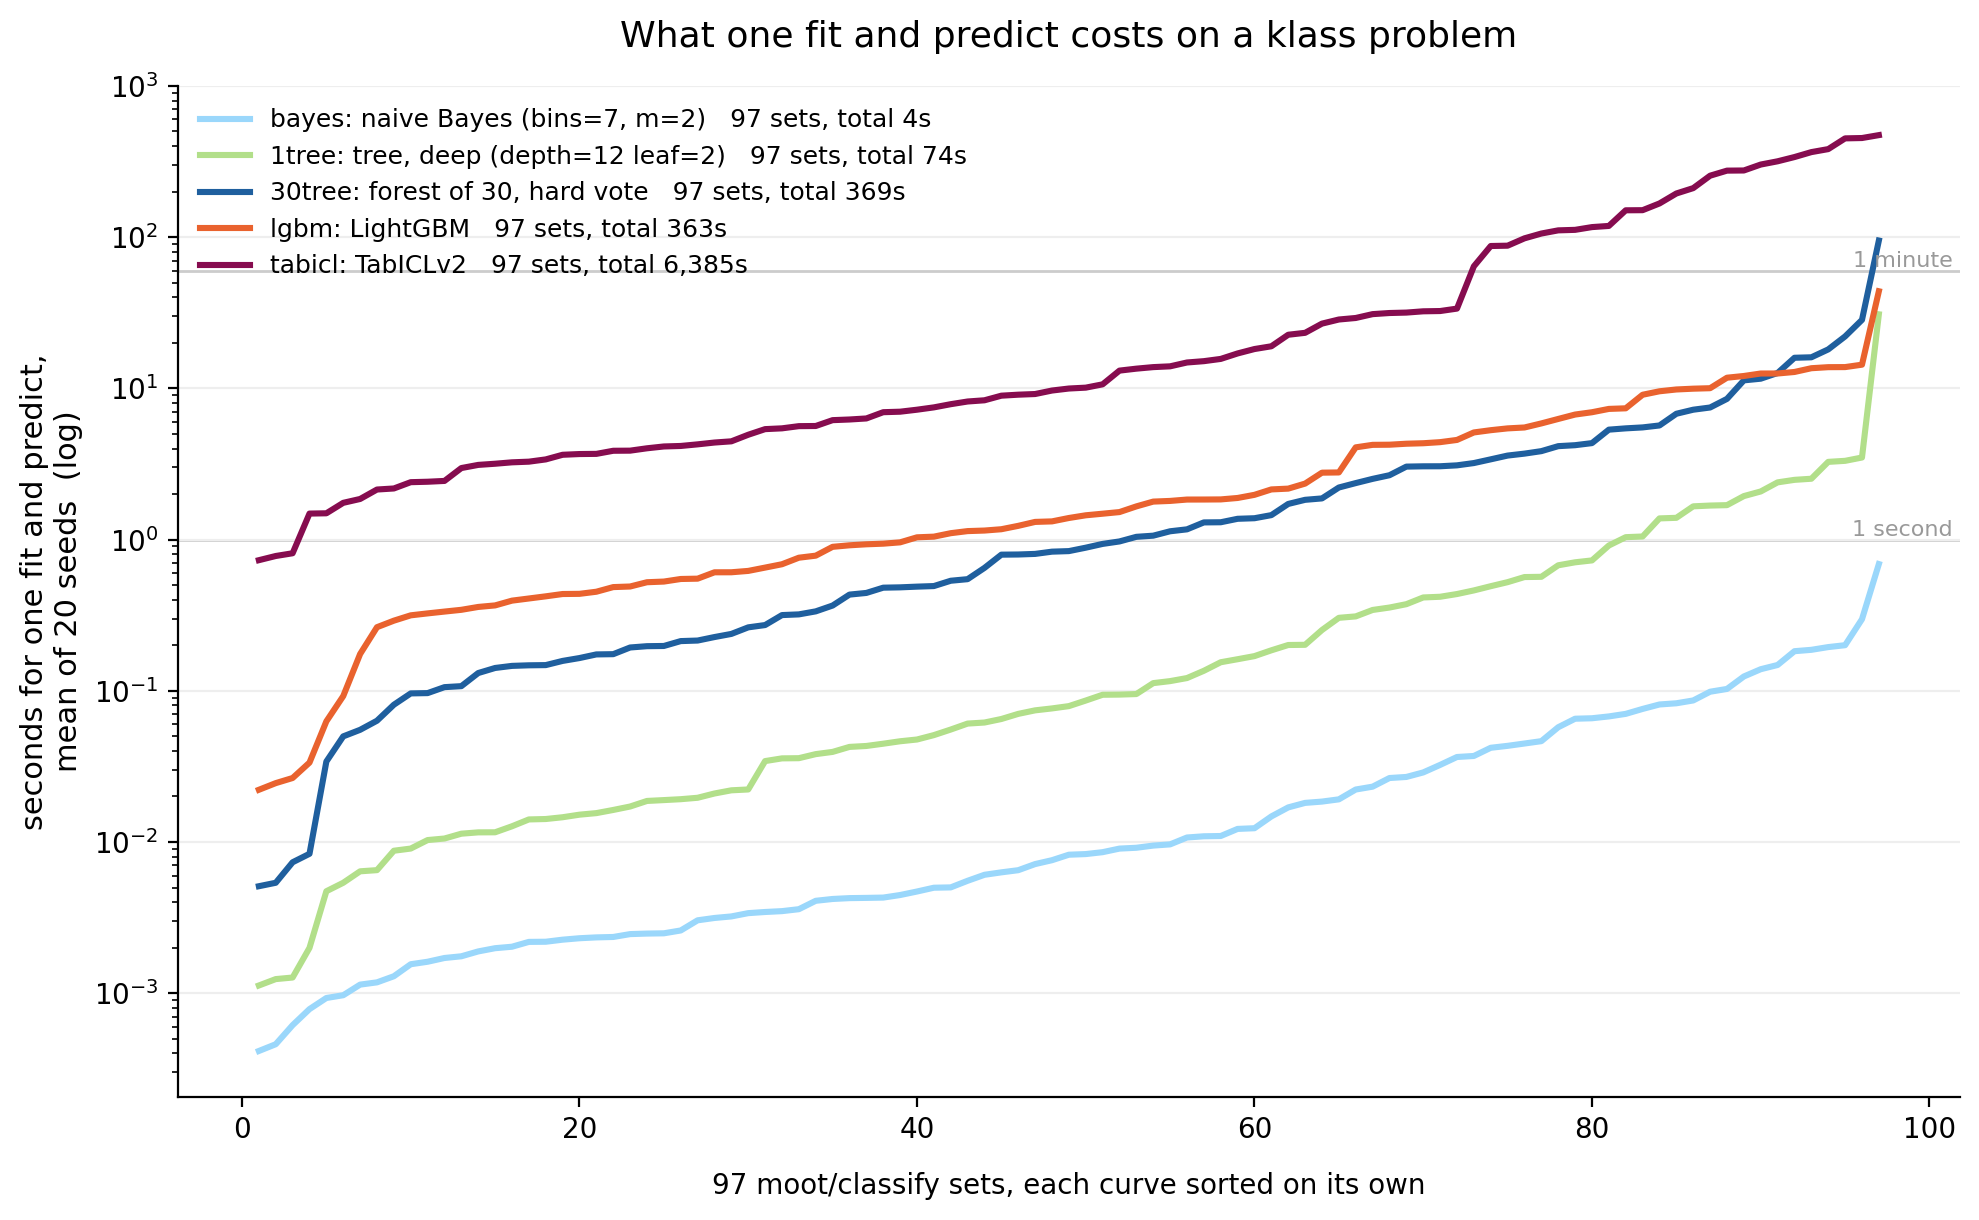
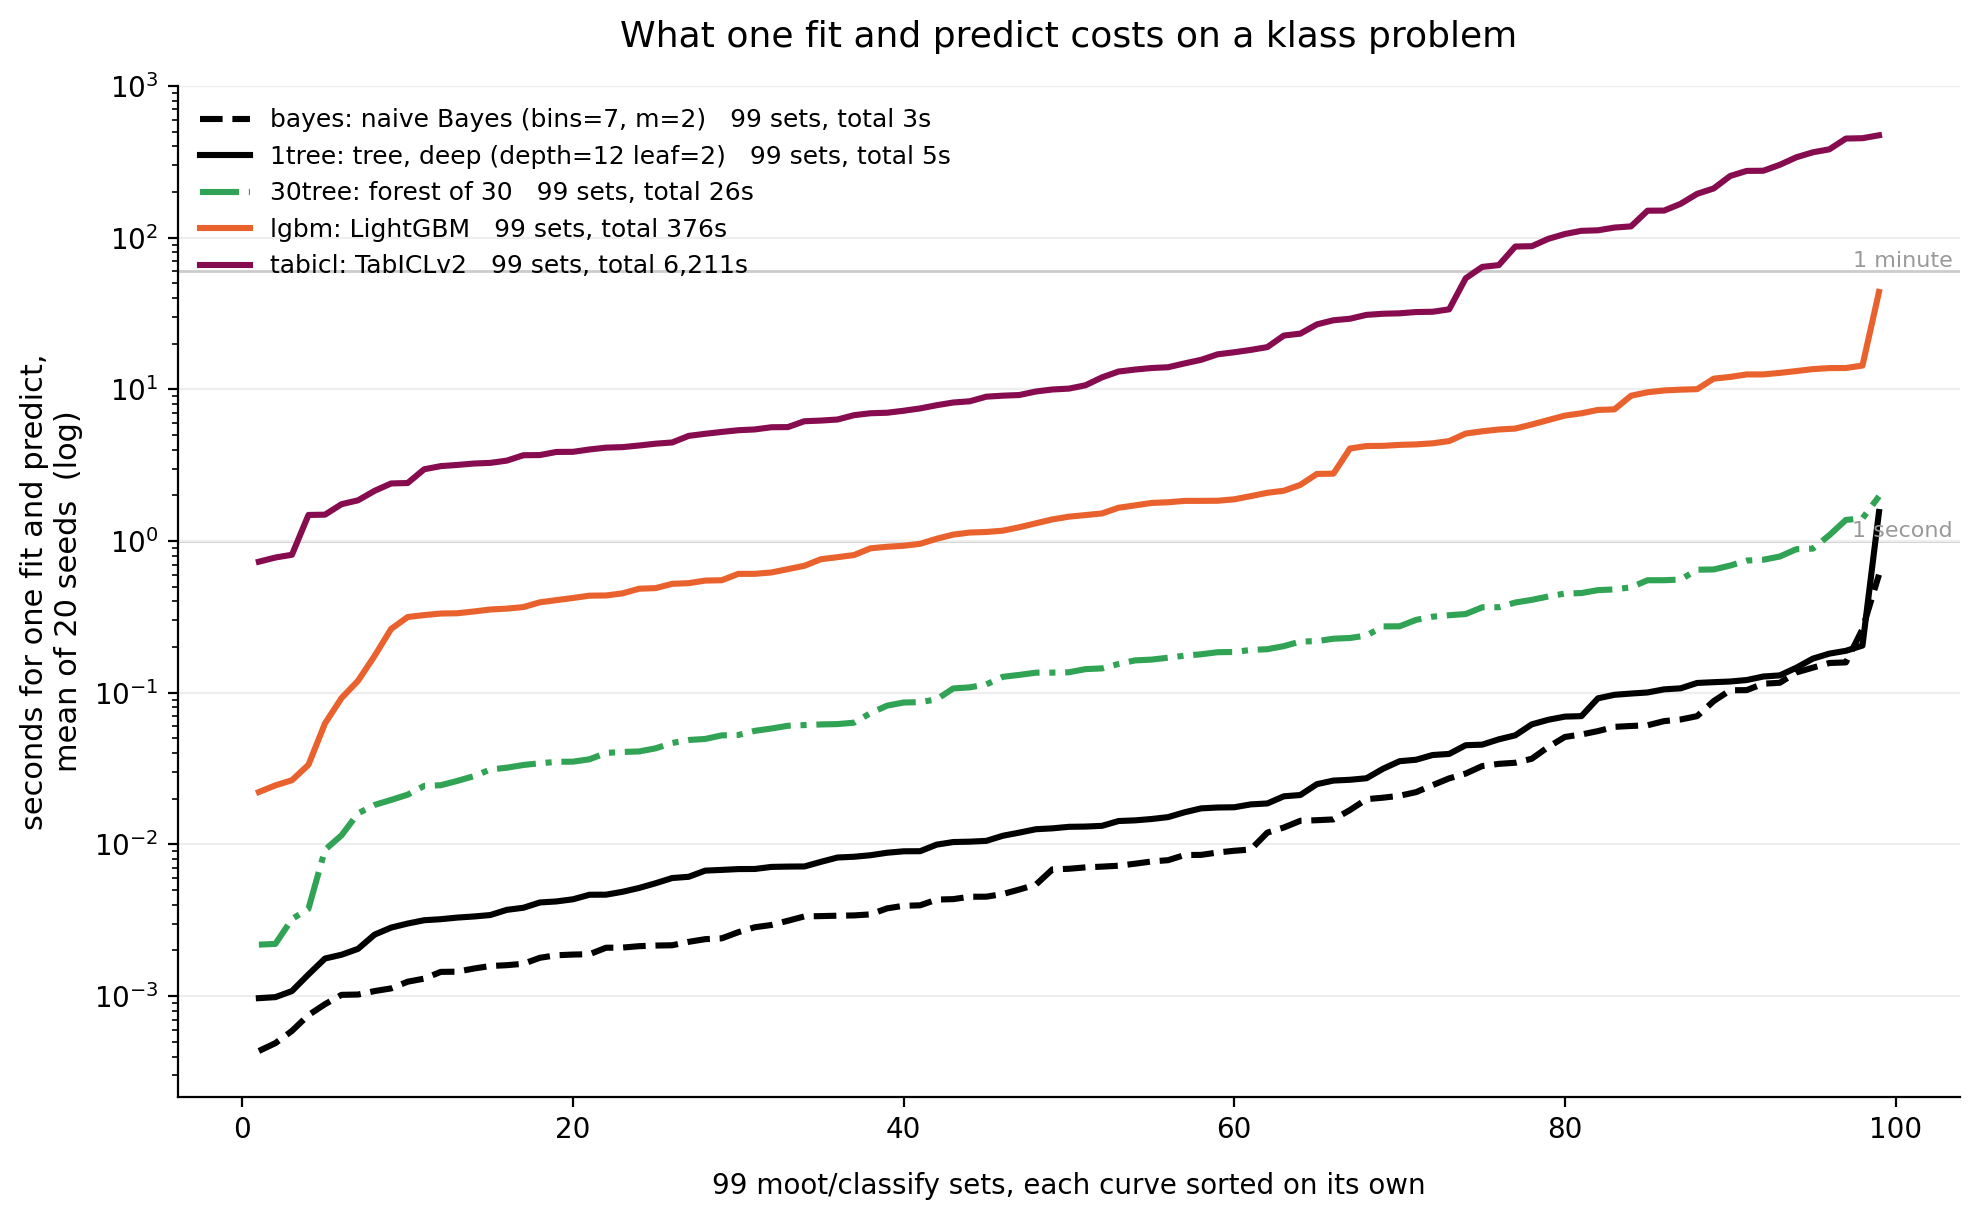
rawclas: redraw on the cached corpus, and let the linestyles speak
Two changes to one figure.

The numbers moved. `0e63675` cached the bin ids and klass codes the
ensemble had been re-deriving per node and per tree, so the forest's
corpus total fell from 1,044s to 26s and now sits well under
LightGBM's 376s rather than above it. The figure had been publishing
the opposite of what the learner does.

The linestyle was hardcoded. `plot(..., "-")` threw away `Look[w][1]`,
and `nb` and `treedeep` are both black -- so two arms drew as one
curve with two labels. Dashed-vs-solid already distinguishes them in
auc.png and pdpf.png; it has to mean the same thing here.

Coverage is 99 sets, the intersection of all five arms, up from 95.

The seconds remain as-shipped, not controlled: LightGBM's 376s
carries its all-core default and the `-P 8` harness, and TabICL's
6,211s was measured at OMP_NUM_THREADS=2. The 14x gap this figure
shows is the optimistic reading; the interleaved single-threaded rig
over 14 sets says 2.42x. A caption that quotes this figure has to say
which of the two it means.

diff --git a/etc/charts.py b/etc/charts.py
@@ -616,7 +616,11 @@ def rawclas():
     # Each curve's own n beside its total: a slow arm that ran on
     # fewer sets can show the smaller total and still be the dearer
     # learner.  These are five corpora, not five columns.
-    a.plot(range(1, len(xs) + 1), xs, "-", color=lab[w][0], lw=2.2,
+    # Take the linestyle from Look, do not hardcode "-": `nb` and
+    # `treedeep` are both black, and drawn solid they are one curve
+    # with two labels.  Dashed-vs-solid is what tells them apart in
+    # auc.png and pdpf.png, so it has to mean the same thing here.
+    a.plot(range(1, len(xs) + 1), xs, lab[w][1], color=lab[w][0], lw=2.2,
            zorder=3, label="{}: {}   {} sets, total {:,.0f}s".format(
              short(w), lab[w][3], len(xs), sum(xs)))
   a.set_yscale("log")
